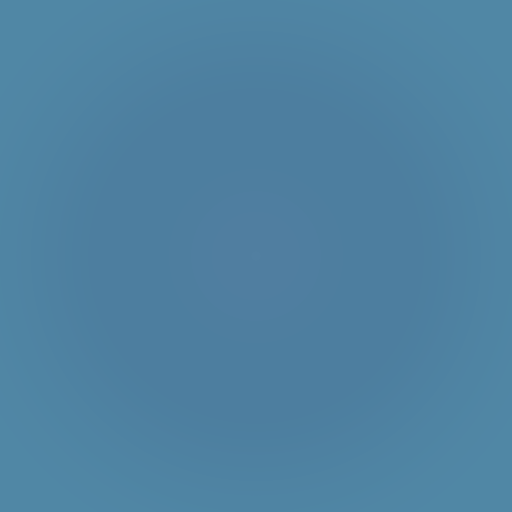
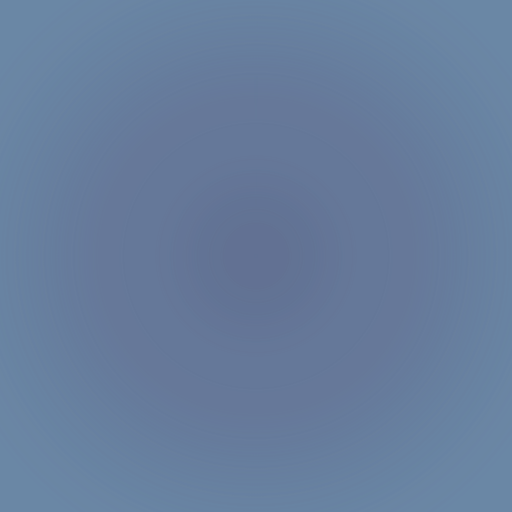
feat: skybox

diff --git a/T1/exec.js b/T1/exec.js
@@ -189,6 +189,21 @@ scene.add(secondaryLight);
 const ambientLight = new THREE.AmbientLight(0xffffff, 0.3);
 scene.add(ambientLight);
 
+// Configuração do Skybox
+// Carregando o cubemap
+const cubeMapLoader = new THREE.CubeTextureLoader();
+const cubeMapTexture = cubeMapLoader.load([
+    './assets/skybox/px.png', // direita
+    './assets/skybox/nx.png', // esquerda
+    './assets/skybox/py.png', // topo
+    './assets/skybox/ny.png', // base
+    './assets/skybox/pz.png', // frente
+    './assets/skybox/nz.png'  // trás
+]);
+
+// Aplicando o cubemap como fundo da cena
+scene.background = cubeMapTexture;
+
 // Helper para visualização do volume de sombra
 const shadowHelper = new THREE.CameraHelper(mainLight.shadow.camera);
 shadowHelper.visible = false; // Inicialmente desativado
@@ -216,7 +231,7 @@ const controls = new function () {
 }
 
 const gui = new GUI();
-gui.add(controls, 'fogFar', 20, 500)
+gui.add(controls, 'fogFar', 20, 200)
   .name("Fog Far")
   .onChange(function (e) { controls.updatefogFar(); });
 
